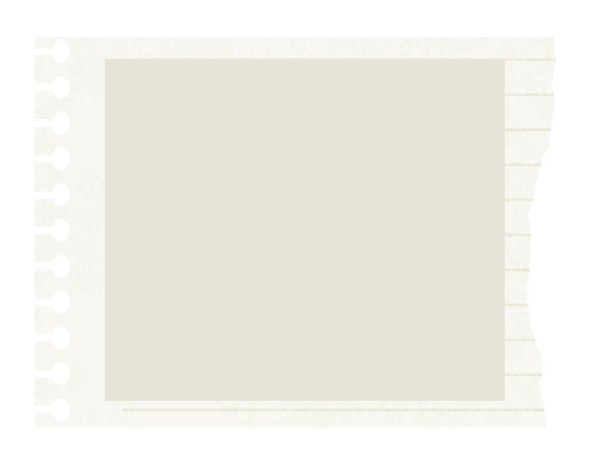
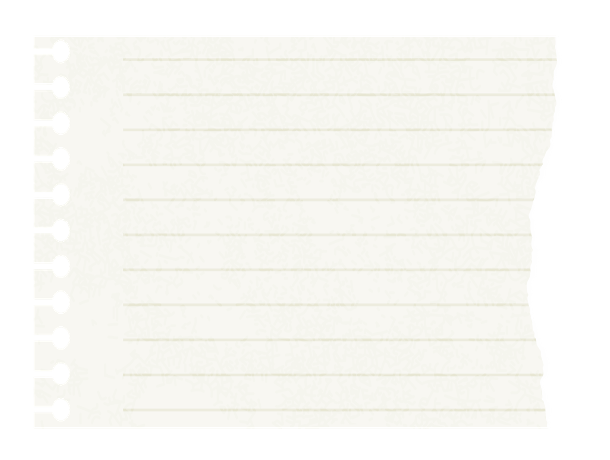
chore: adjust css style

Changed region(s): [[0.1557, 0.1217, 0.841, 0.8826]]

diff --git a/src/views/PlanningPage.vue b/src/views/PlanningPage.vue
@@ -18,8 +18,13 @@
       </div>
 
       <div class="contentpaper">
-        <div>How long will you stay</div>
-        <v-text-field class="selectors" label="Days" variant="solo"></v-text-field>
+        <div>Days of trip</div>
+        <v-select
+          class="selectors"
+          label="Days"
+          :items="['1', '2', '3', '4', '5', '6', '7']"
+          variant="solo"
+        ></v-select>
       </div>
 
       <div class="choosing">
@@ -36,6 +41,10 @@
     <router-link to="/itinerary">
       <v-btn class="button" size="x-large">Create !</v-btn>
     </router-link>
+
+    <img class="suitcase" src="images/suitcase.png" />
+    <img class="camera" src="images/camera.png" />
+    <img class="pic4" src="images/pic4.png" />
   </div>
 </template>
 
@@ -51,7 +60,7 @@ export default {
 }
 </script>
 
-<style scoped>
+<style>
 .page {
   display: flex;
   flex-direction: column;
@@ -59,17 +68,22 @@ export default {
   align-items: center;
   margin-top: 100px;
   text-align: center;
+  background-image: url('images/paper.png');
+  background-position-x: 50%;
+  background-size: 65% 100%;
 }
 
 .title {
   font-family: 'Satisfy', cursive;
   font-size: 80px;
+  color: #3b342a;
+  margin-top: 80px;
 }
 .content {
   font-family: 'Handlee', cursive;
-  font-size: 20px;
-  font-weight: bold;
   font-size: 25px;
+  font-weight: bold;
+  color: #3b342a;
   width: 800px;
   display: flex;
   flex-direction: column;
@@ -80,9 +94,9 @@ export default {
 }
 
 .contentpaper {
-  background-image: url('images/linepaper.png');
-  background-position-y: center;
-  background-size: cover;
+  background-image: url('images/contentpaper.png');
+  background-position: center;
+  background-size: 70%;
   width: 800px;
   height: 120px;
   display: flex;
@@ -92,15 +106,18 @@ export default {
 }
 
 .choosing {
-  background-image: url('images/linepaper.png');
-  background-position-y: center;
-  background-size: cover;
-  width: 800px;
-  height: 200px;
+  background-image: url('images/note.png');
+  background-position-x: 60%;
+  background-position-y: 7%;
+  background-size: 90%;
+  width: 600px;
+  height: 250px;
   display: flex;
   flex-direction: column;
   justify-content: center;
   align-items: center;
+  gap: 30px;
+  margin-top: 20px;
 }
 
 .button {
@@ -113,6 +130,27 @@ export default {
 }
 
 .selectors {
-  width: 400px;
+  width: 300px;
+  height: 100px;
+}
+
+.suitcase {
+  position: absolute;
+  bottom: 10px;
+  left: 50px;
+  width: 300px;
+}
+
+.camera {
+  position: absolute;
+  top: 150px;
+  right: 150px;
+}
+
+.pic4 {
+  position: absolute;
+  bottom: -700px;
+  right: 0px;
+  width: 450px;
 }
 </style>

diff --git a/src/views/HomePage.vue b/src/views/HomePage.vue
@@ -29,6 +29,7 @@
 .title {
   font-family: 'Satisfy', cursive;
   font-size: 80px;
+  color: #3b342a;
   margin-top: 150px;
 }
 .login {
